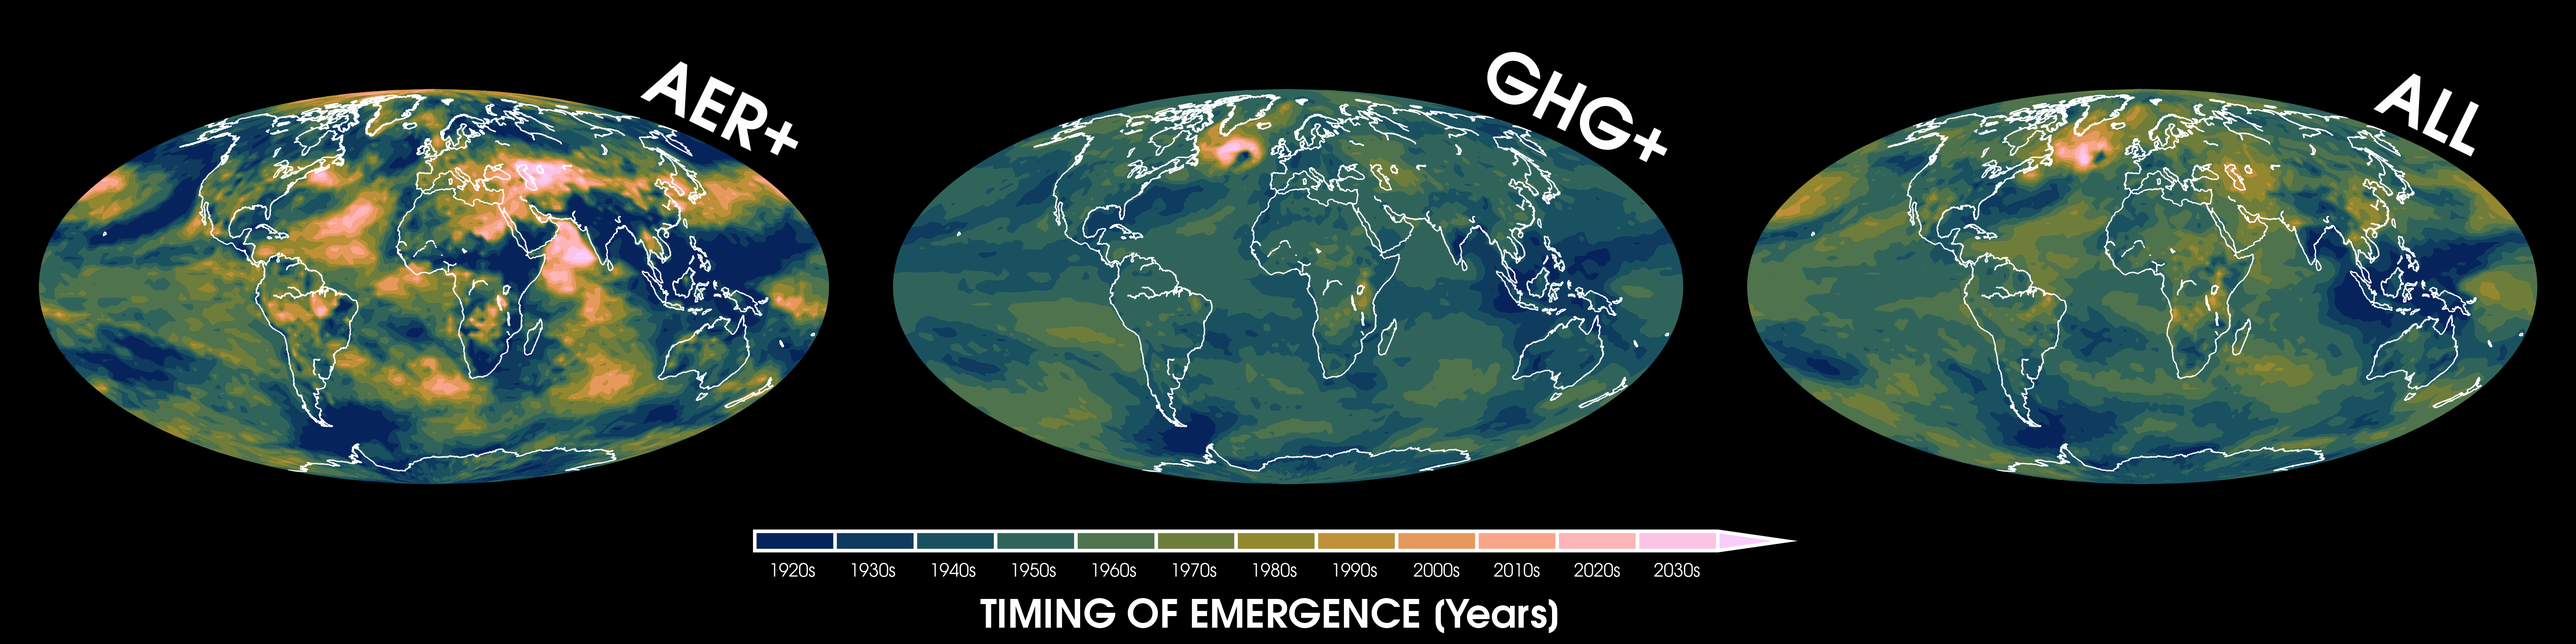
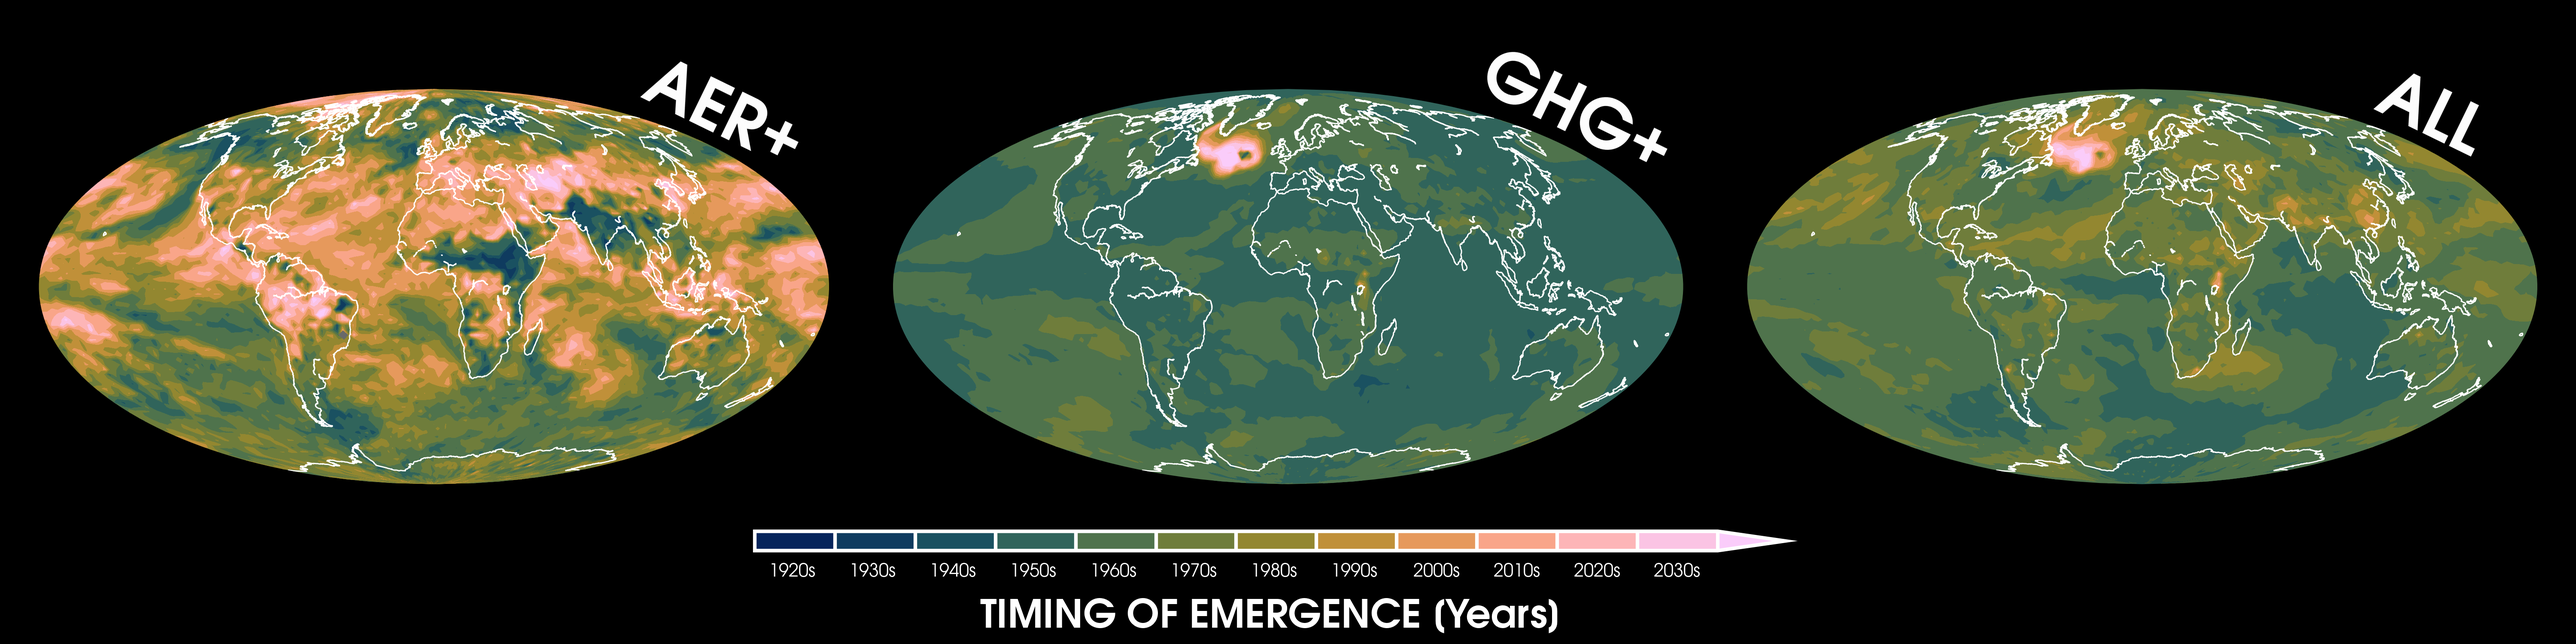
TOE variability

Changed region(s): [[0.0, 0.1227, 0.9973, 0.7667]]

diff --git a/DarkScripts/R1/plot_TOEOfModels_Paper_R1.py b/DarkScripts/R1/plot_TOEOfModels_Paper_R1.py
@@ -96,7 +96,7 @@ def rollingMean(data,w,mp):
 
 ### 10-year running mean
 window = 10 
-min_periods = 1
+min_periods = 10
 smooth_ghg = np.empty((ghg.shape[0],ghg.shape[1]-1,ghg.shape[2],ghg.shape[3]))
 smooth_aer = np.empty((aer.shape[0],aer.shape[1]-1,aer.shape[2],aer.shape[3]))
 smooth_lens = np.empty((lens.shape[0],lens.shape[1]-1,lens.shape[2],lens.shape[3]))

diff --git a/Scripts/R1/plot_TOEOfModels_Paper_R1.py b/Scripts/R1/plot_TOEOfModels_Paper_R1.py
@@ -96,7 +96,7 @@ def rollingMean(data,w,mp):
 
 ### 10-year running mean
 window = 10 
-min_periods = 1
+min_periods = 10
 smooth_ghg = np.empty((ghg.shape[0],ghg.shape[1]-1,ghg.shape[2],ghg.shape[3]))
 smooth_aer = np.empty((aer.shape[0],aer.shape[1]-1,aer.shape[2],aer.shape[3]))
 smooth_lens = np.empty((lens.shape[0],lens.shape[1]-1,lens.shape[2],lens.shape[3]))
